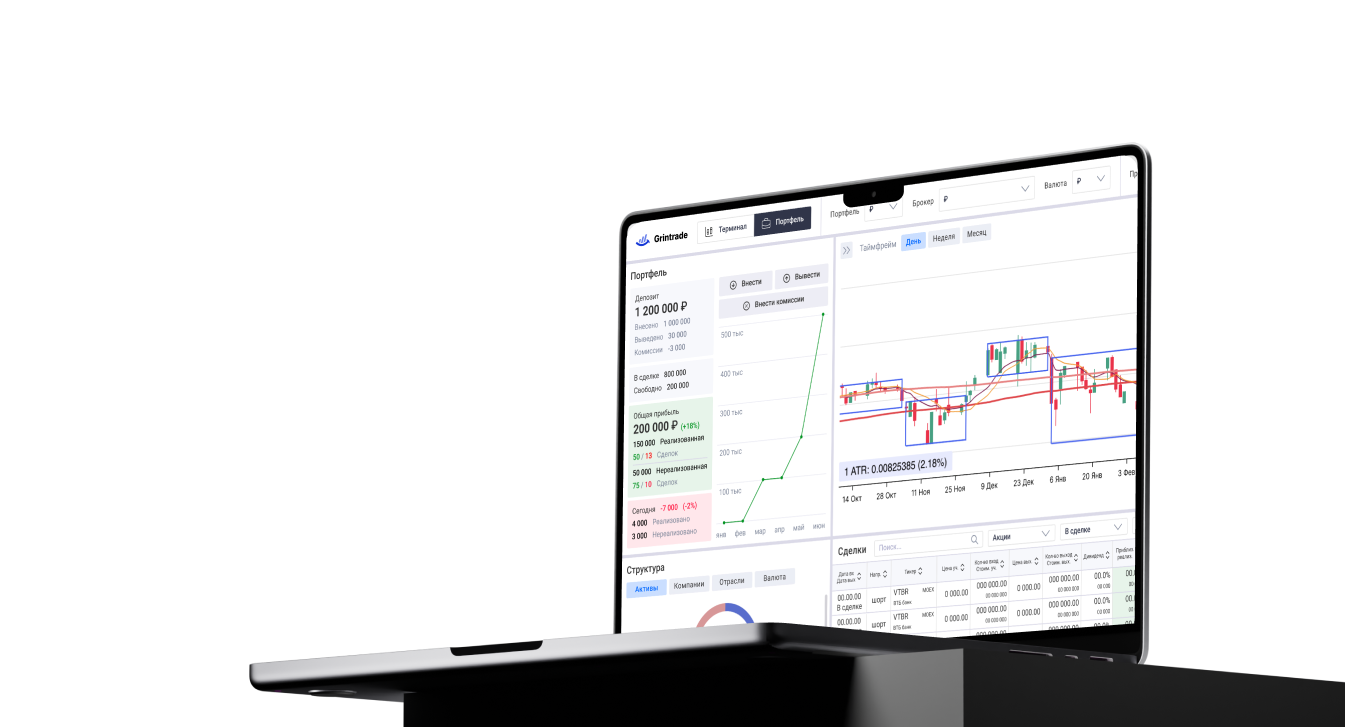
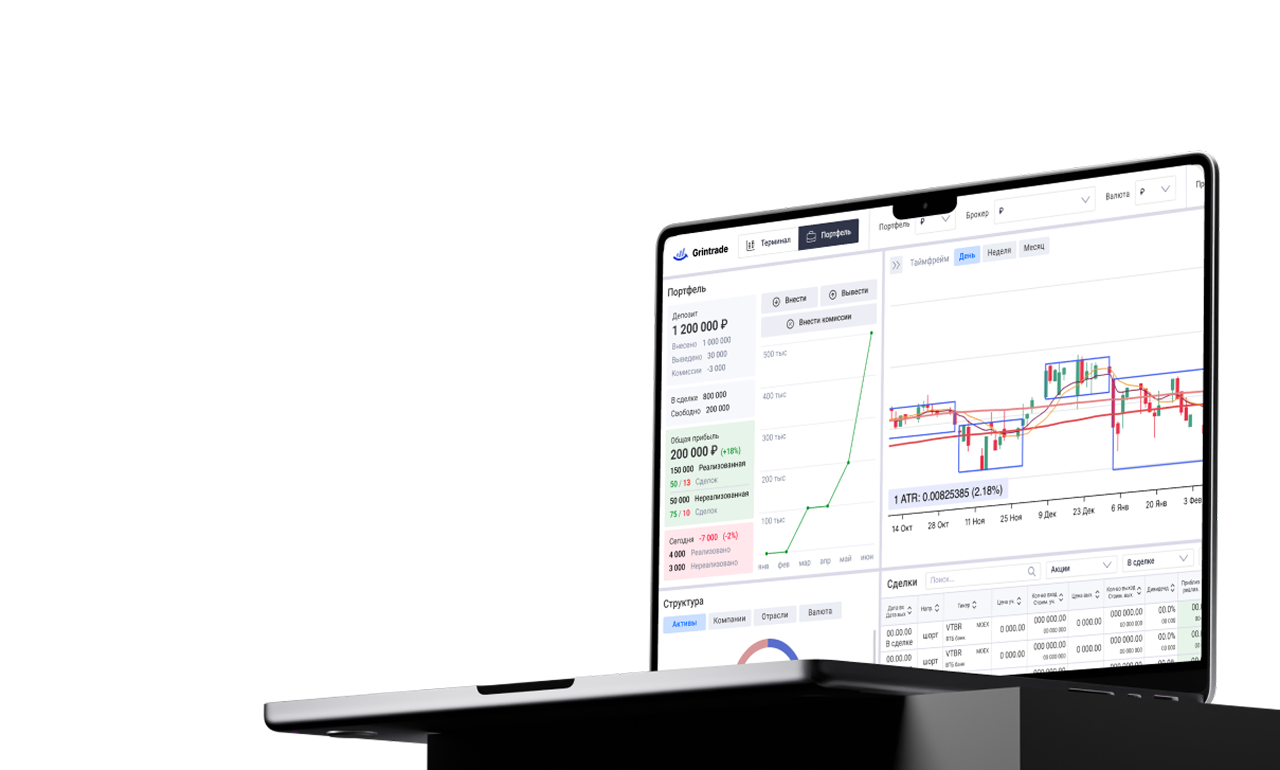
change login image

Changed region(s): [[0.1875, 0.1816, 1.0, 1.0]]

diff --git a/desktop-page/login/src/lib/login/promo/promo.component.scss b/desktop-page/login/src/lib/login/promo/promo.component.scss
@@ -30,6 +30,13 @@
   }
 
   &__image {
+    position: fixed;
+    right: 0;
+    bottom: 0;
+    z-index: 0;
+
+    width: 1300px;
+
     display: flex;
 
     justify-content: center;

diff --git a/desktop-page/login/src/lib/login/login.component.scss b/desktop-page/login/src/lib/login/login.component.scss
@@ -26,6 +26,7 @@
   &__form {
     flex: 1 1;
     position: relative;
+    z-index: 1;
     display: flex;
     flex-direction: column;
     align-items: center;
